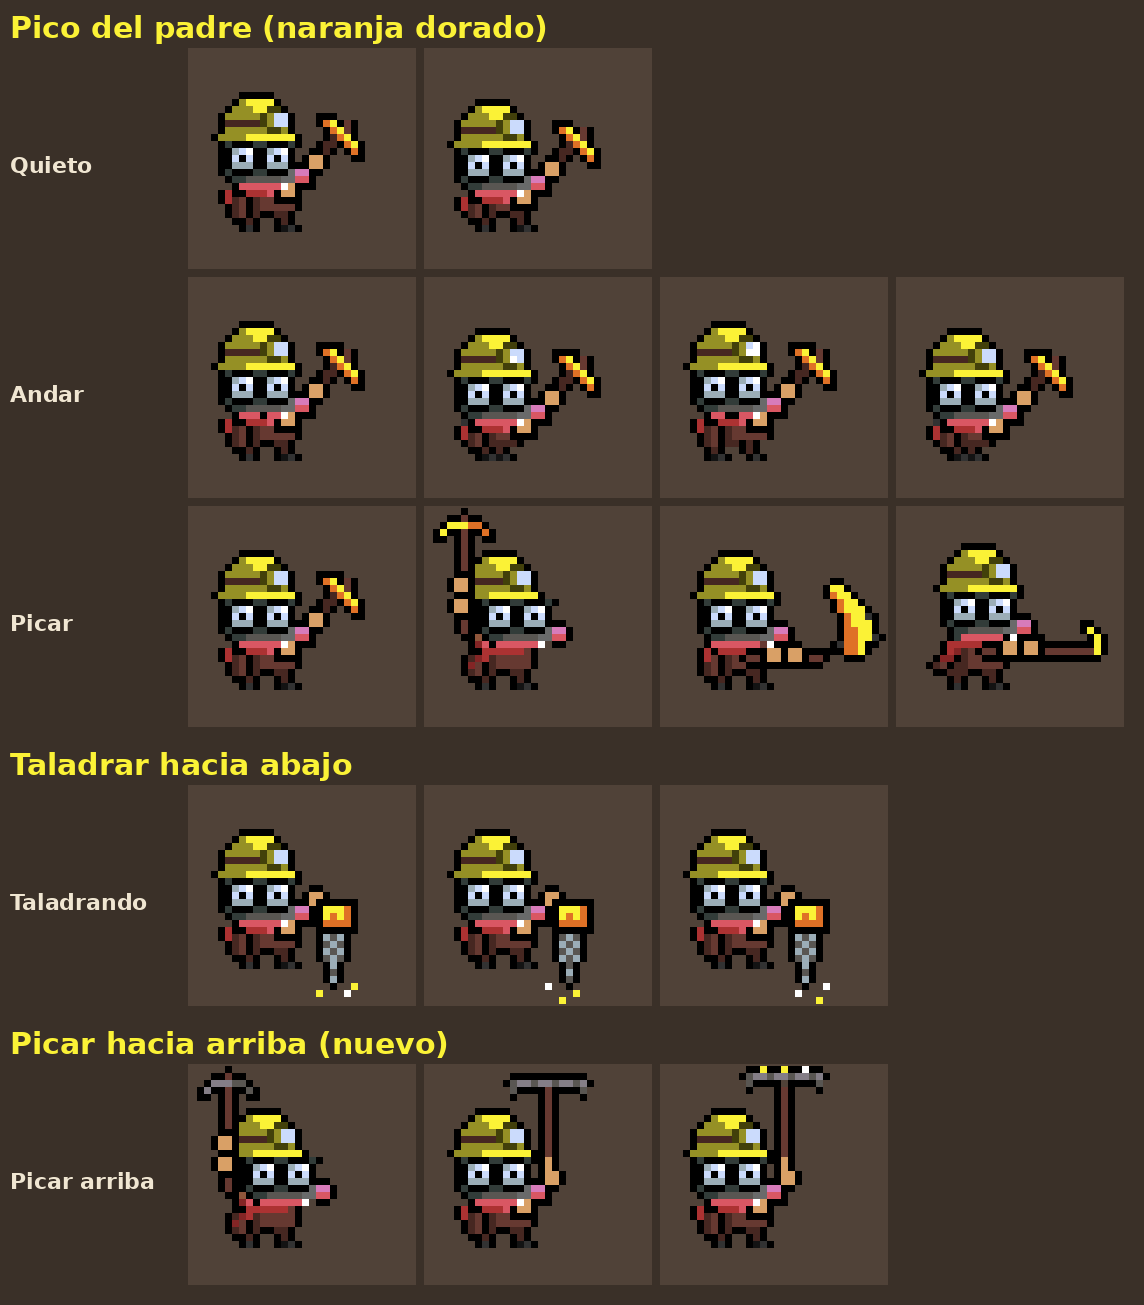
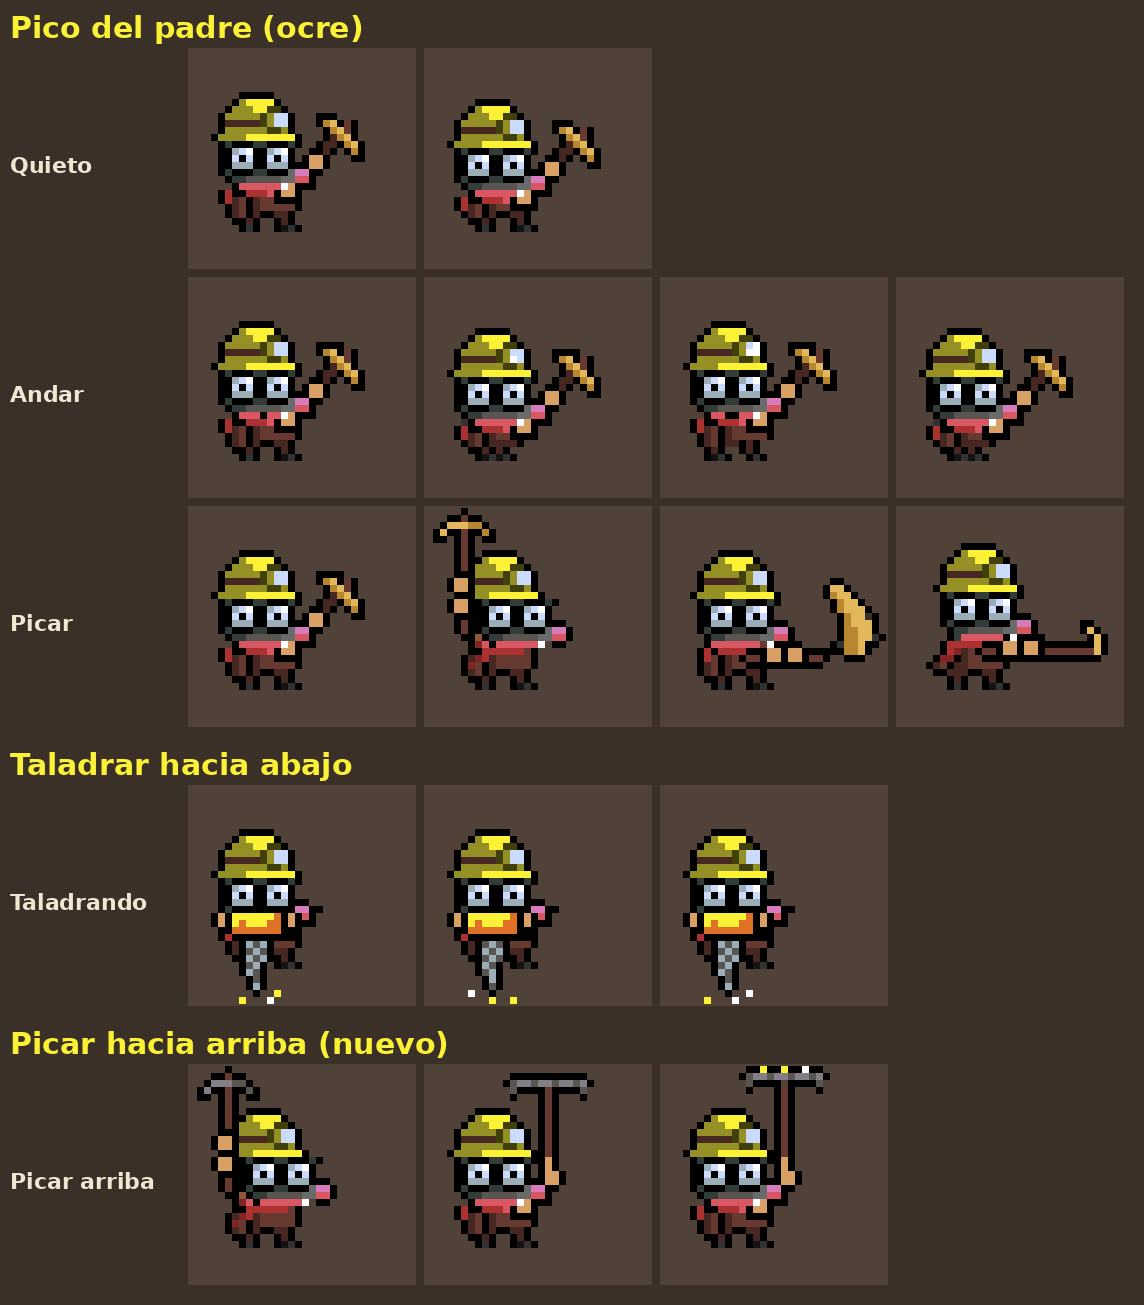
Arte: taladro delante de Deep (como Mr. Driller) y pico del padre en ocre (bocetos)
Claude-Session: https://claude.ai/code/session_01SHsPuscGw6v3wEV6Zknrqo

diff --git a/arte/herramientas/herr2.py b/arte/herramientas/herr2.py
@@ -1,7 +1,7 @@
 import json
 from PIL import Image, ImageDraw, ImageFont
 exec(open('herr.py').read().split('# ---- pico del padre')[0])   # D, pal, put
-pal.update({'Q':'#df7126','R':'#fbf236','S':'#9badb7','V':'#595652','Y':'#fbf236','O':'#df7126'})
+pal.update({'Q':'#b8862f','R':'#e3b85a','S':'#9badb7','V':'#595652','Y':'#fbf236','O':'#df7126'})
 # 1) pico del padre: toda la cabeza del pico naranja dorado
 def pico_padre(fr):
     f=list(fr)
@@ -19,19 +19,25 @@ def sin_pico(fr):
     return f
 # 2) taladrar hacia abajo: el taladro en vertical, delante de Deep, la broca hacia el suelo
 def tal_abajo(k):
+    # como Mr. Driller: el taladro delante de Deep, agarrado con las dos manos, la broca hacia el suelo entre las patas
     f=sin_pico(D['anims']['reposo'][0])
-    cuerpo=['000000','0YYYO0','0YOYO0','0OOOO0','000000']
+    for y,xs in ((14,range(17,19)),(15,range(16,20)),(16,range(17,20))):
+        for x in xs: put(f,y,x,'.')   # fuera la mano del pico
+    cuerpo=['.0000000.','0YYYYYYO0','0YOYYYOO0','0OOOOOOO0','.0000000.']
     for j,row in enumerate(cuerpo):
-        for i,c in enumerate(row): put(f,16+j,18+i,c)
+        for i,c in enumerate(row):
+            if c!='.': put(f,17+j,5+i,c)
+    for y in (18,19):  # manos a los lados
+        put(f,y,4,'k'); put(f,y,14,'k')
+    put(f,17,4,'0'); put(f,20,4,'0'); put(f,17,14,'0'); put(f,20,14,'0'); put(f,18,3,'0'); put(f,19,3,'0'); put(f,18,15,'0'); put(f,19,15,'0')
     a,b=('S','V') if k%2==0 else ('V','S')
-    for j,y in enumerate(range(21,28)):
-        w = 2 if j<4 else 1
-        x0 = 20 - (1 if j<4 else 0)
-        for i in range(w+ (1 if j<4 else 0)):
-            put(f,y,x0+i, a if (j+i)%2==0 else b)
-        put(f,y,x0-1,'0'); put(f,y,x0+w+(1 if j<4 else 0),'0')
-    put(f,28,20,'0')
-    CH=[[(29,18,'b'),(29,22,'n'),(28,23,'b')],[(29,21,'b'),(28,17,'n'),(30,19,'b')],[(30,22,'b'),(29,19,'n'),(28,23,'n')]][k%3]
+    for j,y in enumerate(range(22,29)):
+        w = 3 if j<3 else (2 if j<5 else 1)
+        x0 = 9 - (w//2)
+        for i in range(w): put(f,y,x0+i, a if (j+i)%2==0 else b)
+        put(f,y,x0-1,'0'); put(f,y,x0+w,'0')
+    put(f,29,9,'0')
+    CH=[[(30,7,'b'),(30,11,'n'),(29,12,'b')],[(30,9,'b'),(29,6,'n'),(30,12,'b')],[(30,6,'b'),(30,10,'n'),(29,12,'n')]][k%3]
     for y,x,c in CH: put(f,y,x,c)
     return f
 # 3) picar hacia arriba: preparar (pico levantado, el de picar de lado) y golpe arriba (pico por encima del casco)
@@ -58,7 +64,7 @@ def img(fr,s=S):
     return im.resize((32*s,31*s),Image.NEAREST)
 fB=ImageFont.truetype('/usr/share/fonts/truetype/dejavu/DejaVuSans-Bold.ttf',30); f=ImageFont.truetype('/usr/share/fonts/truetype/dejavu/DejaVuSans-Bold.ttf',22)
 LW=190; CW=32*S+12; RH=31*S+12
-filas=[('Pico del padre (naranja dorado)',None),('Quieto',[pico_padre(x) for x in D['anims']['reposo']]),('Andar',[pico_padre(x) for x in D['anims']['andar']]),('Picar',[pico_padre(x) for x in D['anims']['picar_lado']]),
+filas=[('Pico del padre (ocre)',None),('Quieto',[pico_padre(x) for x in D['anims']['reposo']]),('Andar',[pico_padre(x) for x in D['anims']['andar']]),('Picar',[pico_padre(x) for x in D['anims']['picar_lado']]),
        ('Taladrar hacia abajo',None),('Taladrando',TAB),('Picar hacia arriba (nuevo)',None),('Picar arriba',ARR)]
 H=sum(50 if v is None else RH for _,v in filas)+10
 out=Image.new('RGB',(LW+4*CW+10,H),(58,48,40)); d=ImageDraw.Draw(out); y=0
